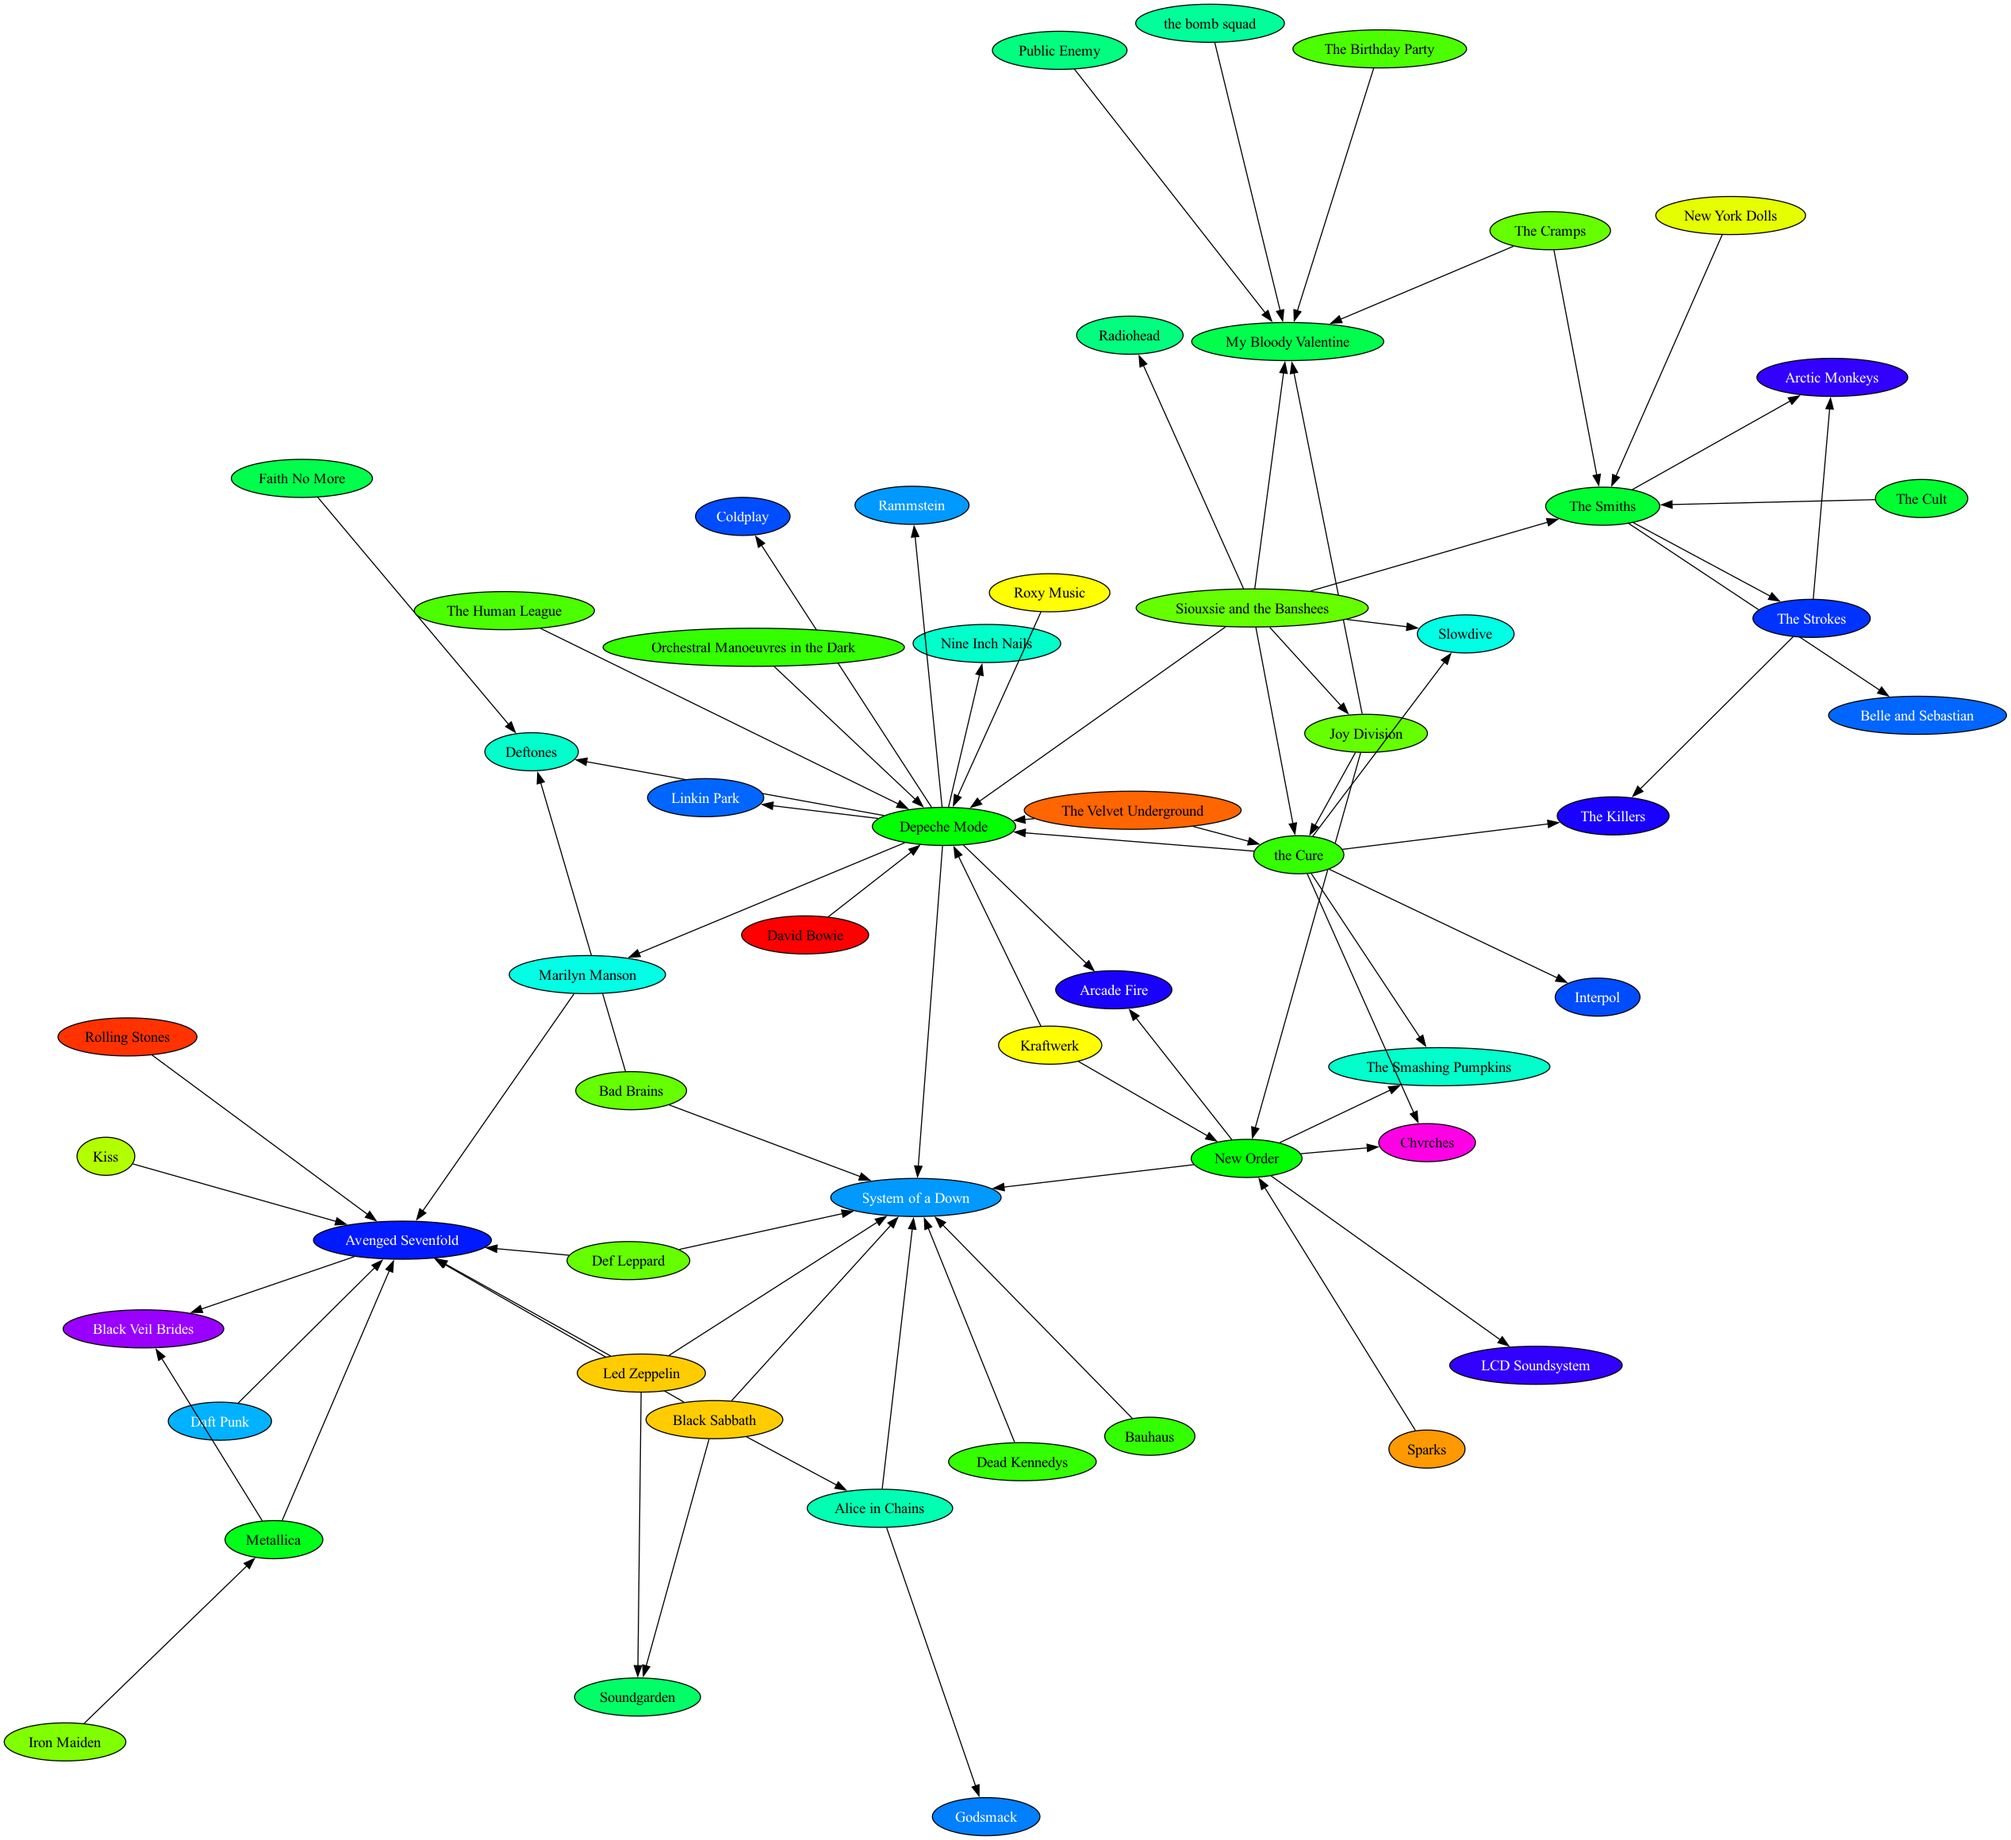
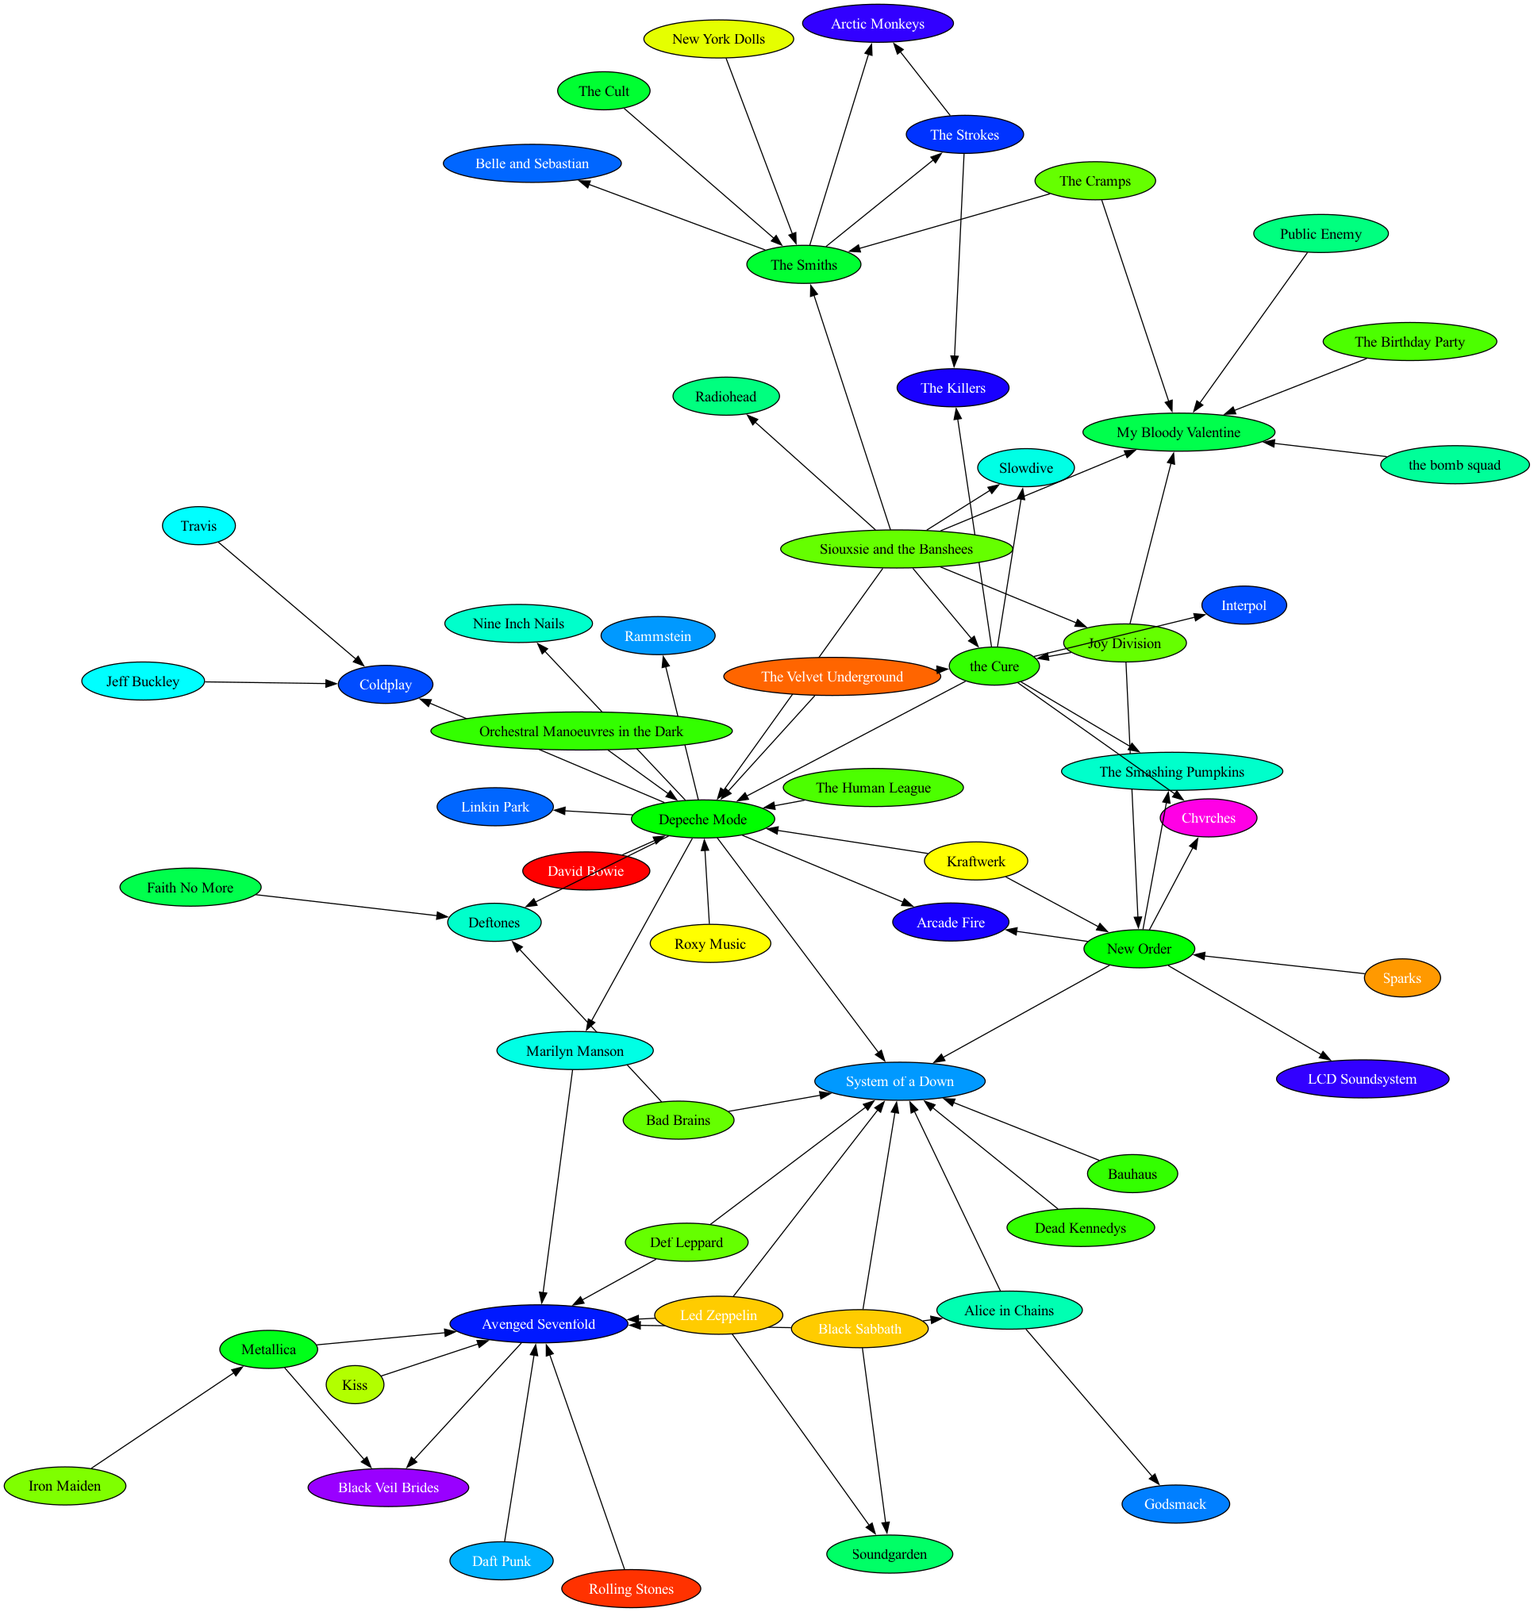
updates

diff --git a/bands/bands.py b/bands/bands.py
@@ -37,7 +37,8 @@ for band_name in bands:
    v = (founded-earliest)/(latest-earliest)
    rgb = get_color(v)
    color = ''.join(rgb)
-   if rgb[2] == 'ff':
+
+   if (rgb[2] == 'ff' and rgb[0] != 'ff' and rgb[1] != 'ff') or (rgb[0] == 'ff' and rgb[1] != 'ff' and rgb[2] != 'ff'):
       fontcolor = '#ffffff'
    else:
       fontcolor = '#000000'
